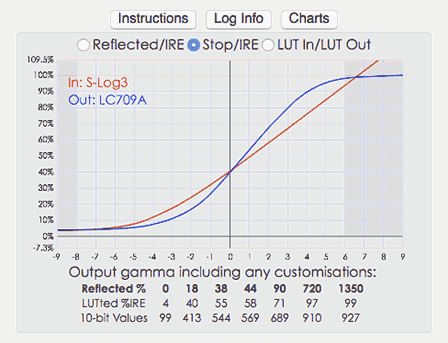
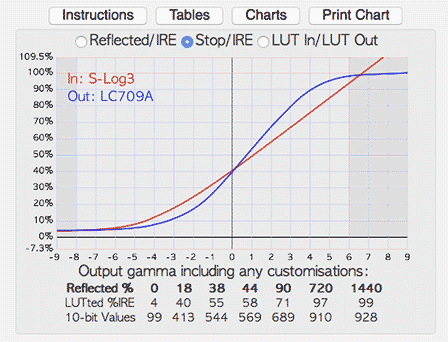
Tweaks to the info pages.

Changed region(s): [[0.0312, 0.1462, 0.9375, 0.9649], [0.125, 0.0292, 0.875, 0.1462], [0.6562, 0.2632, 0.6875, 0.2924]]

diff --git a/testing/lutinfobox.js b/testing/lutinfobox.js
@@ -29,7 +29,7 @@ LUTInfoBox.prototype.io = function() {
 	this.instructionsBut.value = 'Instructions';
 	this.gammaInfoBut = document.createElement('input');
 	this.gammaInfoBut.setAttribute('type','button');
-	this.gammaInfoBut.value = 'Log Info';
+	this.gammaInfoBut.value = 'Tables';
 	this.gammaChartBut = document.createElement('input');
 	this.gammaChartBut.setAttribute('type','button');
 	this.gammaChartBut.value = 'Charts';
@@ -636,7 +636,7 @@ LUTInfoBox.prototype.createInfInfo = function() {
 	this.insInfInfo.appendChild(fig1);
 	this.addInfo(this.insInfInfo,false,null,'This box contains provides information about the current LUT under construction including suggested exposure values and transfer curves, plus instructions for LUTCalc.');
 	this.addInfo(this.insInfInfo,false,'Instructions','Hopefully fairly obvious, after all here you are!');
-	this.addInfo(this.insInfInfo,false,'Log Info','This shows tables of % IRE and 10-bit values for the main log and gamma curves, plus the current output curve.');
+	this.addInfo(this.insInfInfo,false,'Tables','This shows tables of % IRE and 10-bit values for the current output curve, both for common reflectances and for stops above and below 18% gray.');
 	this.addInfo(this.insInfInfo,false,'Charts','This provides three different ways of comparing input and output levels:');
 	this.addInfo(this.insInfInfo,true,'Reflected/IRE','Reflectance levels of the scene (eg 18% gray, 90% white) against % IRE. The simplest chart, but as the x-axis is linear it is hard to read anything meaningful from it.');
 	this.addInfo(this.insInfInfo,true,'Stop/IRE','Shows the output level against input stops. Clearly shows the difference between linear/gamma (keep increasing in slope), log curves (tend towards a straight line slope in the highlights and curves with knee (tend towards a horizontal line in the highlights). Also gives a good idea of dynamic range in stops.');
@@ -997,13 +997,13 @@ LUTInfoBox.prototype.addInfo = function(infoBox,indent,title,text) {
 	infoBox.appendChild(para);
 };
 LUTInfoBox.prototype.gammaInfo = function() {
-	this.tableRefVals = new Float64Array([0,0.18,0.38,0.44,0.9,7.2,13.5]);
+	this.tableRefVals = new Float64Array([0,0.18,0.38,0.44,0.9,7.2,14.4]);
 	this.tableIREVals = new Float64Array(7);
 	this.gammaInfoBox.setAttribute('class','graybox infobox');
 	this.addText(this.gammaInfoBox,'Output gamma including any customisations:');
 	var curires = document.createElement('table');
 	var curiresHead = document.createElement('thead');
-	curiresHead.appendChild(this.addRow(['Reflected %','0','18','38','44','90','720','1350'], 'th'));
+	curiresHead.appendChild(this.addRow(['Reflected %','0','18','38','44','90','720','1440'], 'th'));
 	curires.appendChild(curiresHead);
 	var curiresBody = document.createElement('tbody');
 	var curvarsRow = this.addRow(['10-bit Values','-','-','-','-','-','-','-'],'td');
@@ -1015,6 +1015,37 @@ LUTInfoBox.prototype.gammaInfo = function() {
 	curires.appendChild(curiresBody);
 	this.gammaInfoBox.appendChild(curires);
 	this.gammaInfoBox.appendChild(document.createElement('br'));
+	this.addText(this.gammaInfoBox,'Levels for stops above and below 18% gray (Stop 0)');
+	var tableStopsNeg = document.createElement('table');
+	tableStopsNeg.setAttribute('class','ire-table');
+	var tableStopsNegHead = document.createElement('thead');
+	tableStopsNegHead.appendChild(this.addRow(['Stop','-8','-7','-6','-5','-4','-3','-2','-1','0'], 'th'));
+	tableStopsNeg.appendChild(tableStopsNegHead);
+	var tableStopsNegBody = document.createElement('tbody');
+	var tableVarsNegRow = this.addRow(['10-bit','-','-','-','-','-','-','-','-','-'],'td');
+	this.tableStopsNegVals = tableVarsNegRow.getElementsByTagName('td');
+	var tableIREsNegRow = this.addRow(['%IRE','-','-','-','-','-','-','-','-','-'],'td');
+	this.tableStopsNegIREs = tableIREsNegRow.getElementsByTagName('td');
+	tableStopsNegBody.appendChild(tableIREsNegRow);
+	tableStopsNegBody.appendChild(tableVarsNegRow);
+	tableStopsNeg.appendChild(tableStopsNegBody);
+	this.gammaInfoBox.appendChild(tableStopsNeg);
+	var tableStopsPos = document.createElement('table');
+	tableStopsPos.setAttribute('class','ire-table');
+	var tableStopsPosHead = document.createElement('thead');
+	tableStopsPosHead.appendChild(this.addRow(['Stop','0','1','2','3','4','5','6','7','8'], 'th'));
+	tableStopsPos.appendChild(tableStopsPosHead);
+	var tableStopsPosBody = document.createElement('tbody');
+	var tableVarsPosRow = this.addRow(['10-bit','-','-','-','-','-','-','-','-','-'],'td');
+	this.tableStopsPosVals = tableVarsPosRow.getElementsByTagName('td');
+	var tableIREsPosRow = this.addRow(['%IRE','-','-','-','-','-','-','-','-','-'],'td');
+	this.tableStopsPosIREs = tableIREsPosRow.getElementsByTagName('td');
+	tableStopsPosBody.appendChild(tableIREsPosRow);
+	tableStopsPosBody.appendChild(tableVarsPosRow);
+	tableStopsPos.appendChild(tableStopsPosBody);
+	this.gammaInfoBox.appendChild(tableStopsPos);
+	this.gammaInfoBox.appendChild(document.createElement('br'));
+/*
 	var logvars = document.createElement('table');
 	var logvarsHead = document.createElement('thead');
 	logvarsHead.appendChild(this.addRow(['Gamma','0% Black','18% Grey (20% IRE)','90% White (100% IRE)'], 'th'));
@@ -1053,6 +1084,7 @@ LUTInfoBox.prototype.gammaInfo = function() {
 	this.gammaInfoBox.appendChild(document.createElement('br'));
 	this.addText(this.gammaInfoBox,'%IRE mappings from reflected values:');
 	this.gammaInfoBox.appendChild(gamires);
+*/
 };
 LUTInfoBox.prototype.gammaChart = function() {
 	var m = 129;
@@ -1092,7 +1124,7 @@ LUTInfoBox.prototype.gammaChart = function() {
 	this.gammaChartBox.appendChild(document.createTextNode('Output gamma including any customisations:'));
 	var curires = document.createElement('table');
 	var curiresHead = document.createElement('thead');
-	curiresHead.appendChild(this.addRow(['Reflected %','0','18','38','44','90','720','1350'], 'th'));
+	curiresHead.appendChild(this.addRow(['Reflected %','0','18','38','44','90','720','1440'], 'th'));
 	curires.appendChild(curiresHead);
 	var curiresBody = document.createElement('tbody');
 	var curvarsRow = this.addRow(['10-bit Values','-','-','-','-','-','-','-'],'td');
@@ -1501,7 +1533,7 @@ LUTInfoBox.prototype.gammaInfoOpt = function() {
 	this.instructionsBox.style.display = 'none';
 	this.gammaInfoBox.style.display = 'block';
 	this.gammaChartBox.style.display = 'none';
-	this.gammaPrintBut.style.display = 'none';
+	this.gammaPrintBut.style.display = 'inline';
 };
 LUTInfoBox.prototype.gammaChartOpt = function() {
 	this.instructionsBox.style.display = 'none';
@@ -1591,6 +1623,23 @@ LUTInfoBox.prototype.updateTables = function() {
 			this.lutOutIREs[j+1].innerHTML = '-';
 			this.lutOutValsChart[j+1].innerHTML = '-';
 			this.lutOutIREsChart[j+1].innerHTML = '-';
+		}
+	}
+	for (var j=0; j<9; j++) {
+		if (this.stopVals[j] < -0.07305936073059) {
+			this.stopVals[j] = -0.07305936073059;
+		}
+		this.tableStopsNegIREs[j+1].innerHTML = Math.round(this.stopVals[j]*100).toString();
+		this.tableStopsNegVals[j+1].innerHTML = Math.round((this.stopVals[j]*876)+64).toString();
+		this.tableStopsPosIREs[j+1].innerHTML = Math.round(this.stopVals[j+8]*100).toString();
+		this.tableStopsPosVals[j+1].innerHTML = Math.round((this.stopVals[j+8]*876)+64).toString();
+		if (parseInt(this.tableStopsNegVals[j+1].innerHTML) > 1023) {
+			this.tableStopsNegVals[j+1].innerHTML = '-';
+			this.tableStopsNegIREs[j+1].innerHTML = '-';
+		}
+		if (parseInt(this.tableStopsPosVals[j+1].innerHTML) > 1023) {
+			this.tableStopsPosVals[j+1].innerHTML = '-';
+			this.tableStopsPosIREs[j+1].innerHTML = '-';
 		}
 	}
 };

diff --git a/testing/splash.js b/testing/splash.js
@@ -10,7 +10,7 @@
 * Github: https://github.com/cameramanben/LUTCalc
 */
 lutInputs.addInput('version','v2.60');
-lutInputs.addInput('date','August 2016');
+lutInputs.addInput('date','September 2016');
 var splash = document.getElementById('javascriptwarning');
 splash.removeChild(splash.firstChild);
 splash.className = 'splash';

diff --git a/testing/gamma.js b/testing/gamma.js
@@ -3690,7 +3690,7 @@ LUTGamma.prototype.chartVals = function(p,t,i) {
 			}
 		}
 	}
-	var table = new Float64Array([0,0.18,0.38,0.44,0.9,7.2,13.5]);
+	var table = new Float64Array([0,0.18,0.38,0.44,0.9,7.2,14.4]);
 	for (var j=0; j<7; j++) {
 		table[j] /= 0.9;
 	}

diff --git a/testing/style.css b/testing/style.css
@@ -59,6 +59,8 @@
     z-index:999;
 }
 .modalbox-hide {display:none;}
+.ire-table {table-layout: fixed; margin-bottom: 0.5em;}
+.ire-table td {width:3em;}
 /* LUT options */
 .lut-opt { display: inline; }
 .lut-opt-hide { display: none; }

diff --git a/testing/CHANGELOG.md b/testing/CHANGELOG.md
@@ -5,6 +5,8 @@ v2.60
 -----
 * New Feature - Batch-generate sets of exposure compensation LUTs across a user-selectable EI range and step size.
 * Feature Change - White and Black clipping can be set individually, and either to the LUT's output range, or always legal.
+* Feature Change - The 'Log Info' information button is now 'Tables', and shows IRE and 10-bit values for the current output gamma, both for various common reflectances and for each of +/- 8 stops around 18% gray.
+* Feature Change - 1350% reflectance has been replaced by 1440% reflectance, to reflect the 1600% linear IRE which seems to be becoming a manufacturer reference level.
 * Bugfix - Fixed broken ACEScc input code. ACEScc as a 'Rec Gamma' option now works as expected.
 
 v2.54
